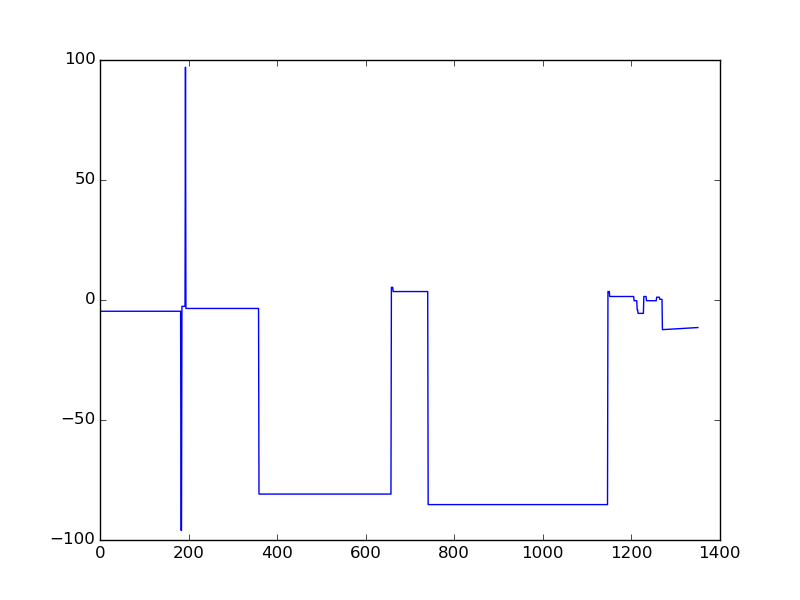
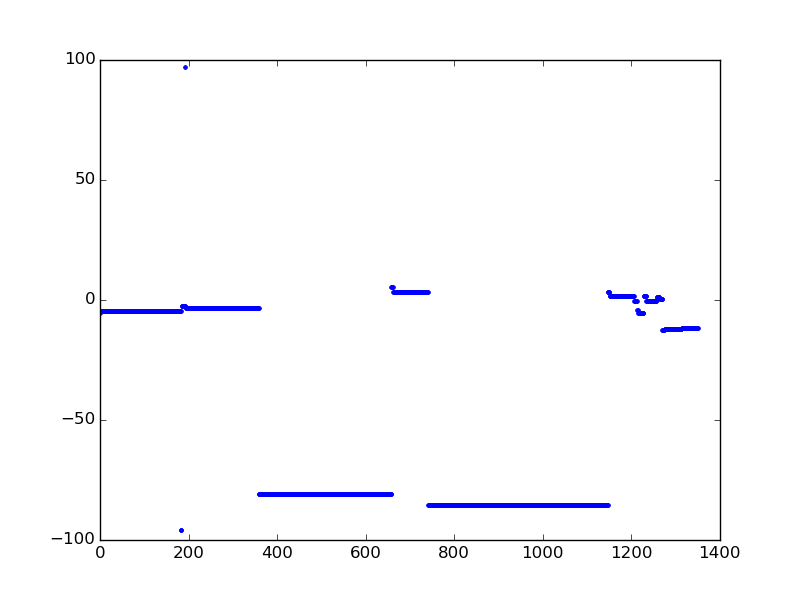
README

diff --git a/Ajouts_Maeva/interpolation/decoup_mouv.py b/Ajouts_Maeva/interpolation/decoup_mouv.py
@@ -175,7 +175,7 @@ def draw_graphs(source):
         xnew += [i]
     for moteur in range(len(values)):
         fig = plt.figure()
-        plt.plot(xnew, values[moteur],"-")
+        plt.plot(xnew, values[moteur],".")
         name = "decoup_mouv/motor" + str(moteur+1) + ".png"
         fig.savefig(name)
 

diff --git a/Ajouts_Maeva/README.md b/Ajouts_Maeva/README.md
@@ -1,49 +1,17 @@
+Movement library for Metabots and movement interpolation
+========================================================
 
-## Enregistrer un mouvement:
+#This project is divided into two parts:
+* __Creation of a movement library__: Max/MSP interface and Python functions to send these movements to a Metabot.
+* __Interpolation__: Computation of a curve close to the movement points in order to be able to make an initial movement vary.  
 
-* installer firmware Robin (permettant au metabot de comprendre "specialmove", "learning", "motor1" et "motor2")
-* lancer commande "sudo screen \<port serie\> 115200"
-* lancer commande "ctrl-a H" —> lance l’enregistrement
-* lancer commande "learning"
-* faire manuellement au robot le mouvement souhaité
-* lancer commande "ctrl-a \" (ou fermer le terminal et éteindre le robot) —> stoppe l’enregistrement
-* déplacer le fichier "screenlog.0" dans le répertoire "interpolation"
-* aller dans le répertoire "interpolation"
-* lancer commande "python generate_files.py \<nom_mouvement\>" —> création de fichiers dans le répertoire "txt"
+#Development:
+* The API for interpolation is developped in Python and constituted of 7 main functions.
+* A movement can be sent through the MAX/MSP interface or by using Python functions (read __MOUVEMENT.md__ for more informations).
 
-
-
-
-## Lancer un mouvement (en ligne de commande):
-
-* établir une connection bluetooth avec le metabot
-* aller dans le répertoire "interpolation"
-* lancer commande "python Move.py txt/nom_mouv.txt \<port serie\>"
-	
+#Documentation:
+* The operating of the MAX/MSP interface is explained in __MOUVEMENT.md__.
+* The operating of the interpolation part in explained in __API.md__. A documentation of each function is available by typing help(name_of_function) in shell.
 
 
 
-## Lancer un mouvement depuis screen:
-
-* lancer commande "sudo screen \<port serie\> 115200"
-* lancer commande "start"
-* copier/coller l'intégralité du fichier "interpolation/txt/nom_mouv.txt" dans le screen
-
-
-
-
-## Lancer un mouvement depuis Max/MSP:
-
-* établir une connection bluetooth avec le metabot
-* aller dans le répertoire "Max_IHM" puis "lib_fixe" ou "lib_vitesse" et cliquer sur le mouvement voulu (sera fonctionnel quand la librairie sera créée)
-* deux patchs sont pour l'instant à disposition: mouvement fixe + mouvement dont la vitesse est contrôlable
-
-
-
-
-## Ajouter un mouvement dans l’interface Max/MSP:
-
-* copier/coller le fichier "interpolation/txt/nom_mouv.txt" dans le répertoire "Max_IHM"
-* aller dans le répertoire "Max_IHM/Lib_\<choix\>.maxpat" (choix: fixe ou gestion vitesse)
-* copier/coller le modèle de patch
-* marquer le nom du mouvement (le même que le .txt) à la place de "NAME"

diff --git a/Ajouts_Maeva/interpolation/MOUVEMENT.md b/Ajouts_Maeva/interpolation/MOUVEMENT.md
@@ -1,0 +1,49 @@
+
+## Enregistrer un mouvement:
+
+* installer firmware Robin (permettant au metabot de comprendre "specialmove", "learning", "motor1" et "motor2")
+* lancer commande "sudo screen \<port serie\> 115200"
+* lancer commande "ctrl-a H" —> lance l’enregistrement
+* lancer commande "learning"
+* faire manuellement au robot le mouvement souhaité
+* lancer commande "ctrl-a \" (ou fermer le terminal et éteindre le robot) —> stoppe l’enregistrement
+* déplacer le fichier "screenlog.0" dans le répertoire "interpolation"
+* aller dans le répertoire "interpolation"
+* lancer commande "python generate_files.py \<nom_mouvement\>" —> création de fichiers dans le répertoire "txt"
+
+
+
+
+## Lancer un mouvement (en ligne de commande):
+
+* établir une connection bluetooth avec le metabot
+* aller dans le répertoire "interpolation"
+* lancer commande "python Move.py txt/nom_mouv.txt \<port serie\>"
+	
+
+
+
+## Lancer un mouvement depuis screen:
+
+* lancer commande "sudo screen \<port serie\> 115200"
+* lancer commande "start"
+* copier/coller l'intégralité du fichier "interpolation/txt/nom_mouv.txt" dans le screen
+
+
+
+
+## Lancer un mouvement depuis Max/MSP:
+
+* établir une connection bluetooth avec le metabot
+* aller dans le répertoire "Max_IHM" puis "lib_fixe" ou "lib_vitesse" et cliquer sur le mouvement voulu (sera fonctionnel quand la librairie sera créée)
+* deux patchs sont pour l'instant à disposition: mouvement fixe + mouvement dont la vitesse est contrôlable
+
+
+
+
+## Ajouter un mouvement dans l’interface Max/MSP:
+
+* copier/coller le fichier "interpolation/txt/nom_mouv.txt" dans le répertoire "Max_IHM"
+* aller dans le répertoire "Max_IHM/Lib_\<choix\>.maxpat" (choix: fixe ou gestion vitesse)
+* copier/coller le modèle de patch
+* marquer le nom du mouvement (le même que le .txt) à la place de "NAME"
